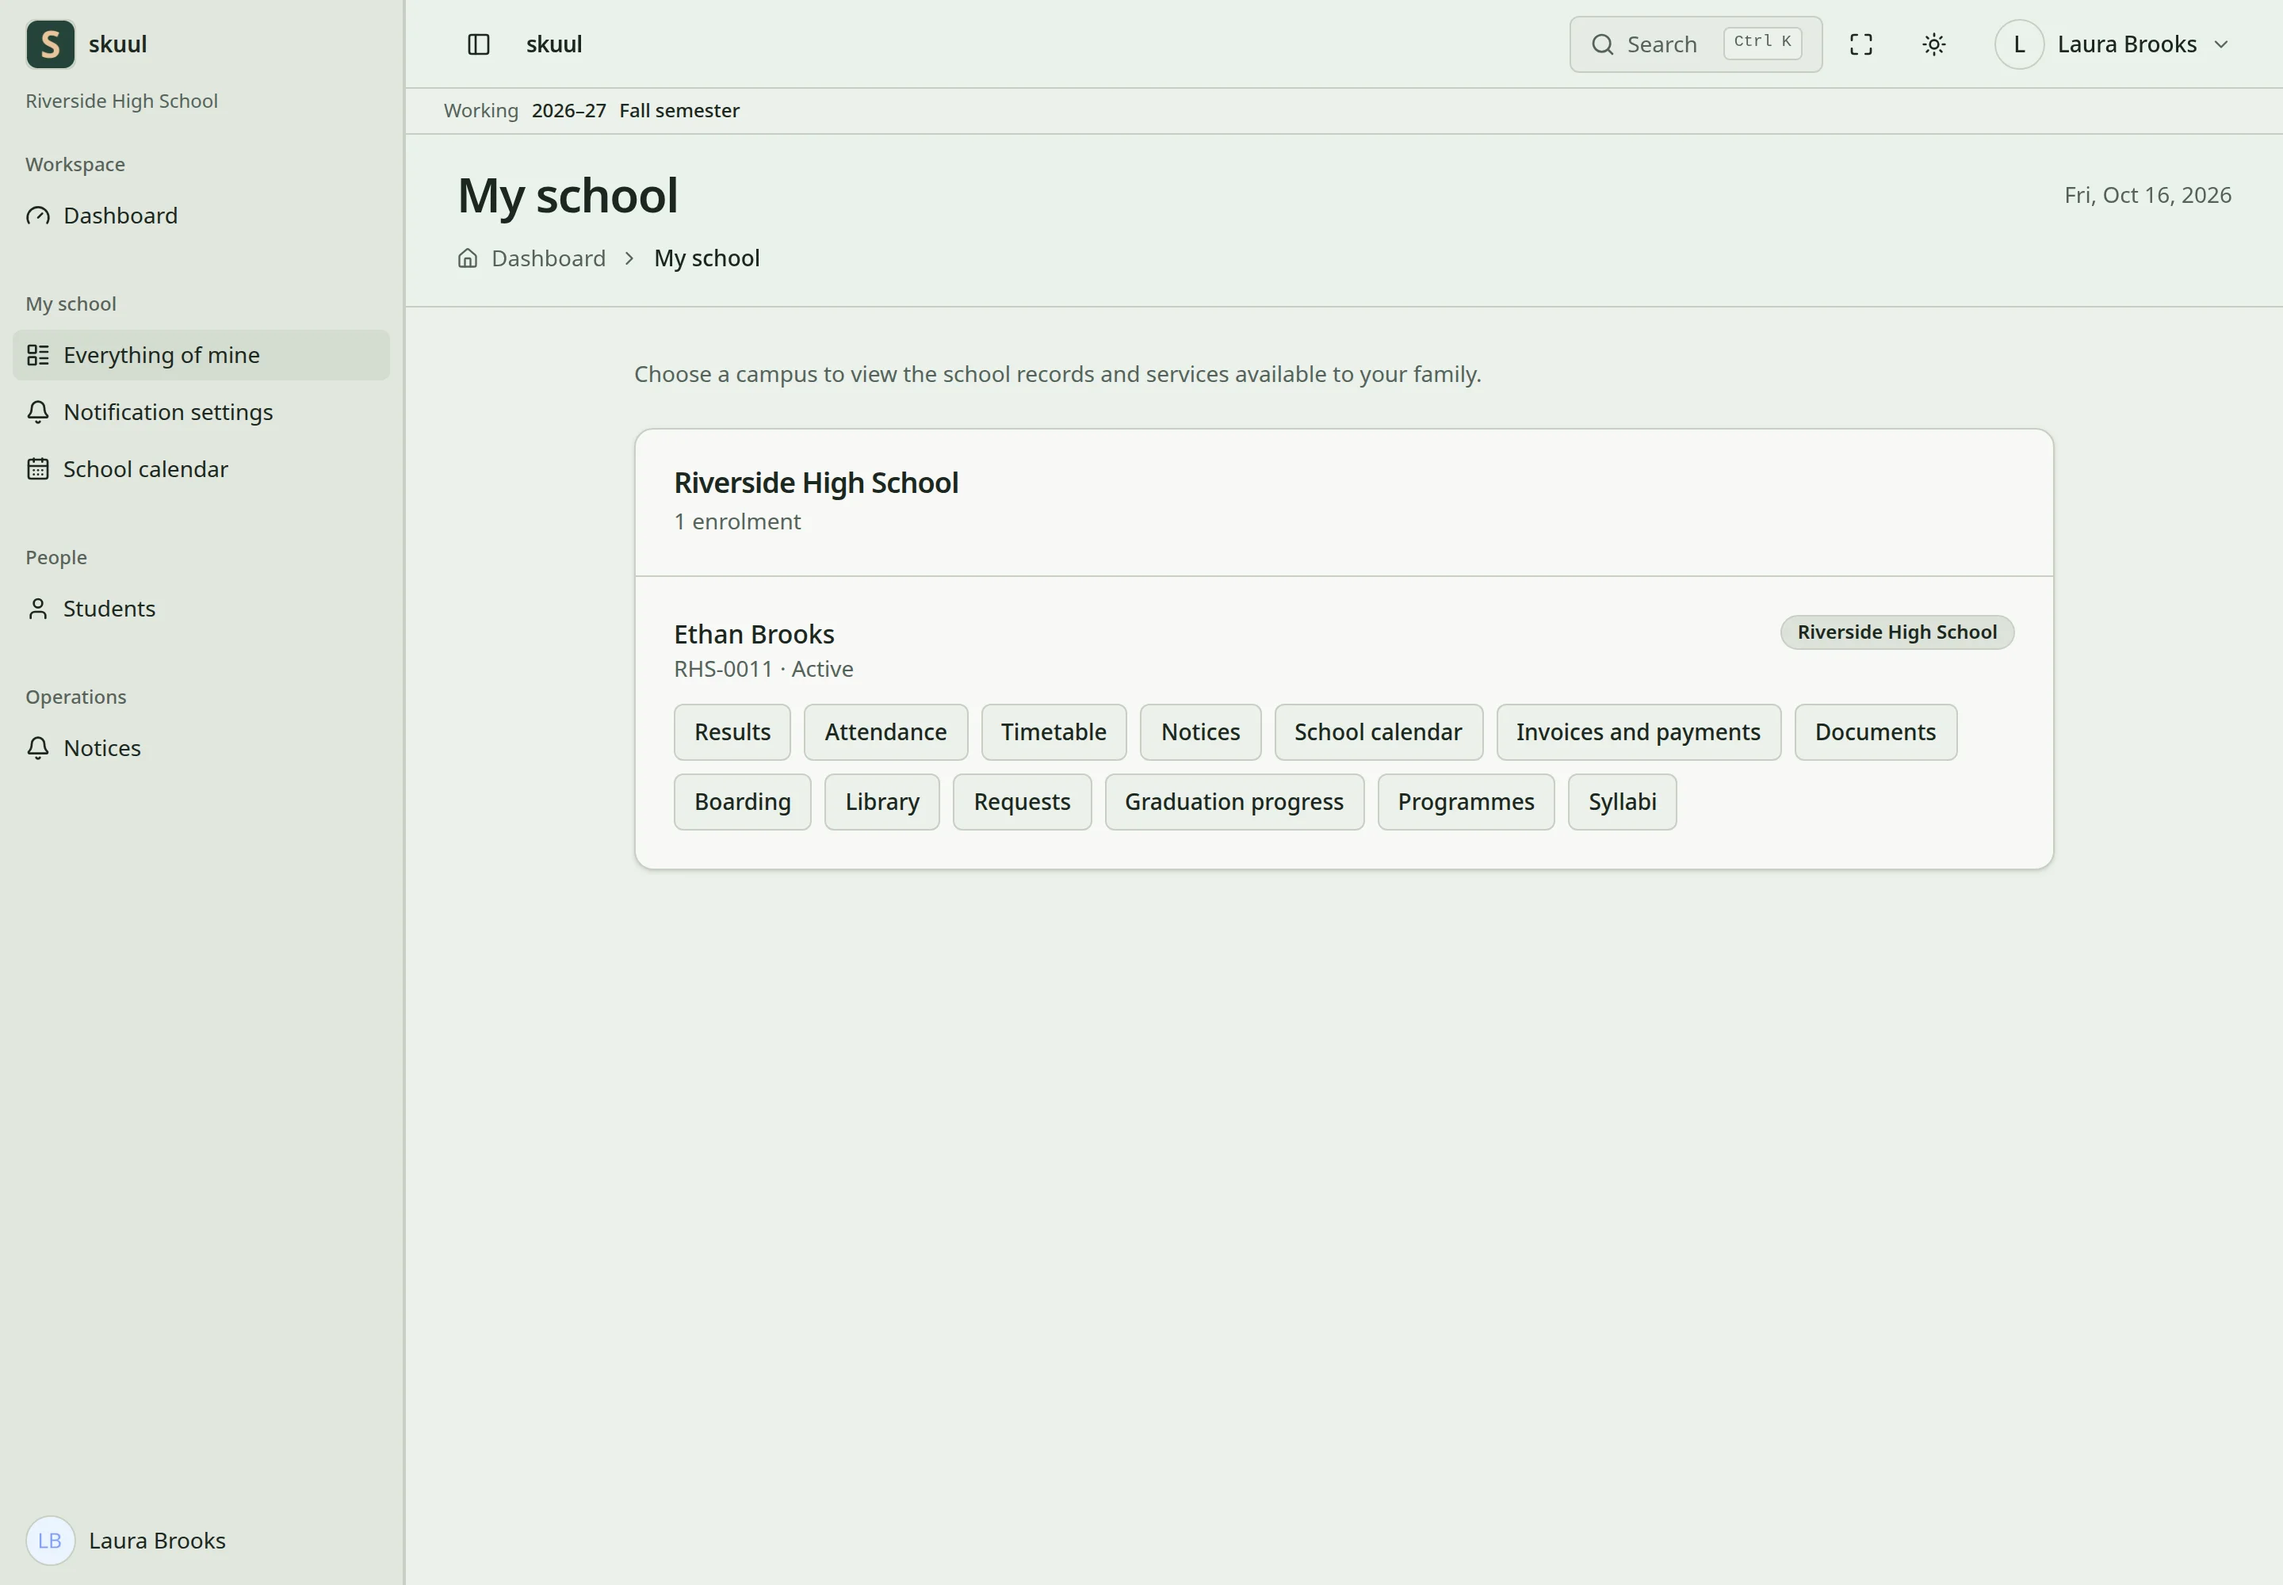
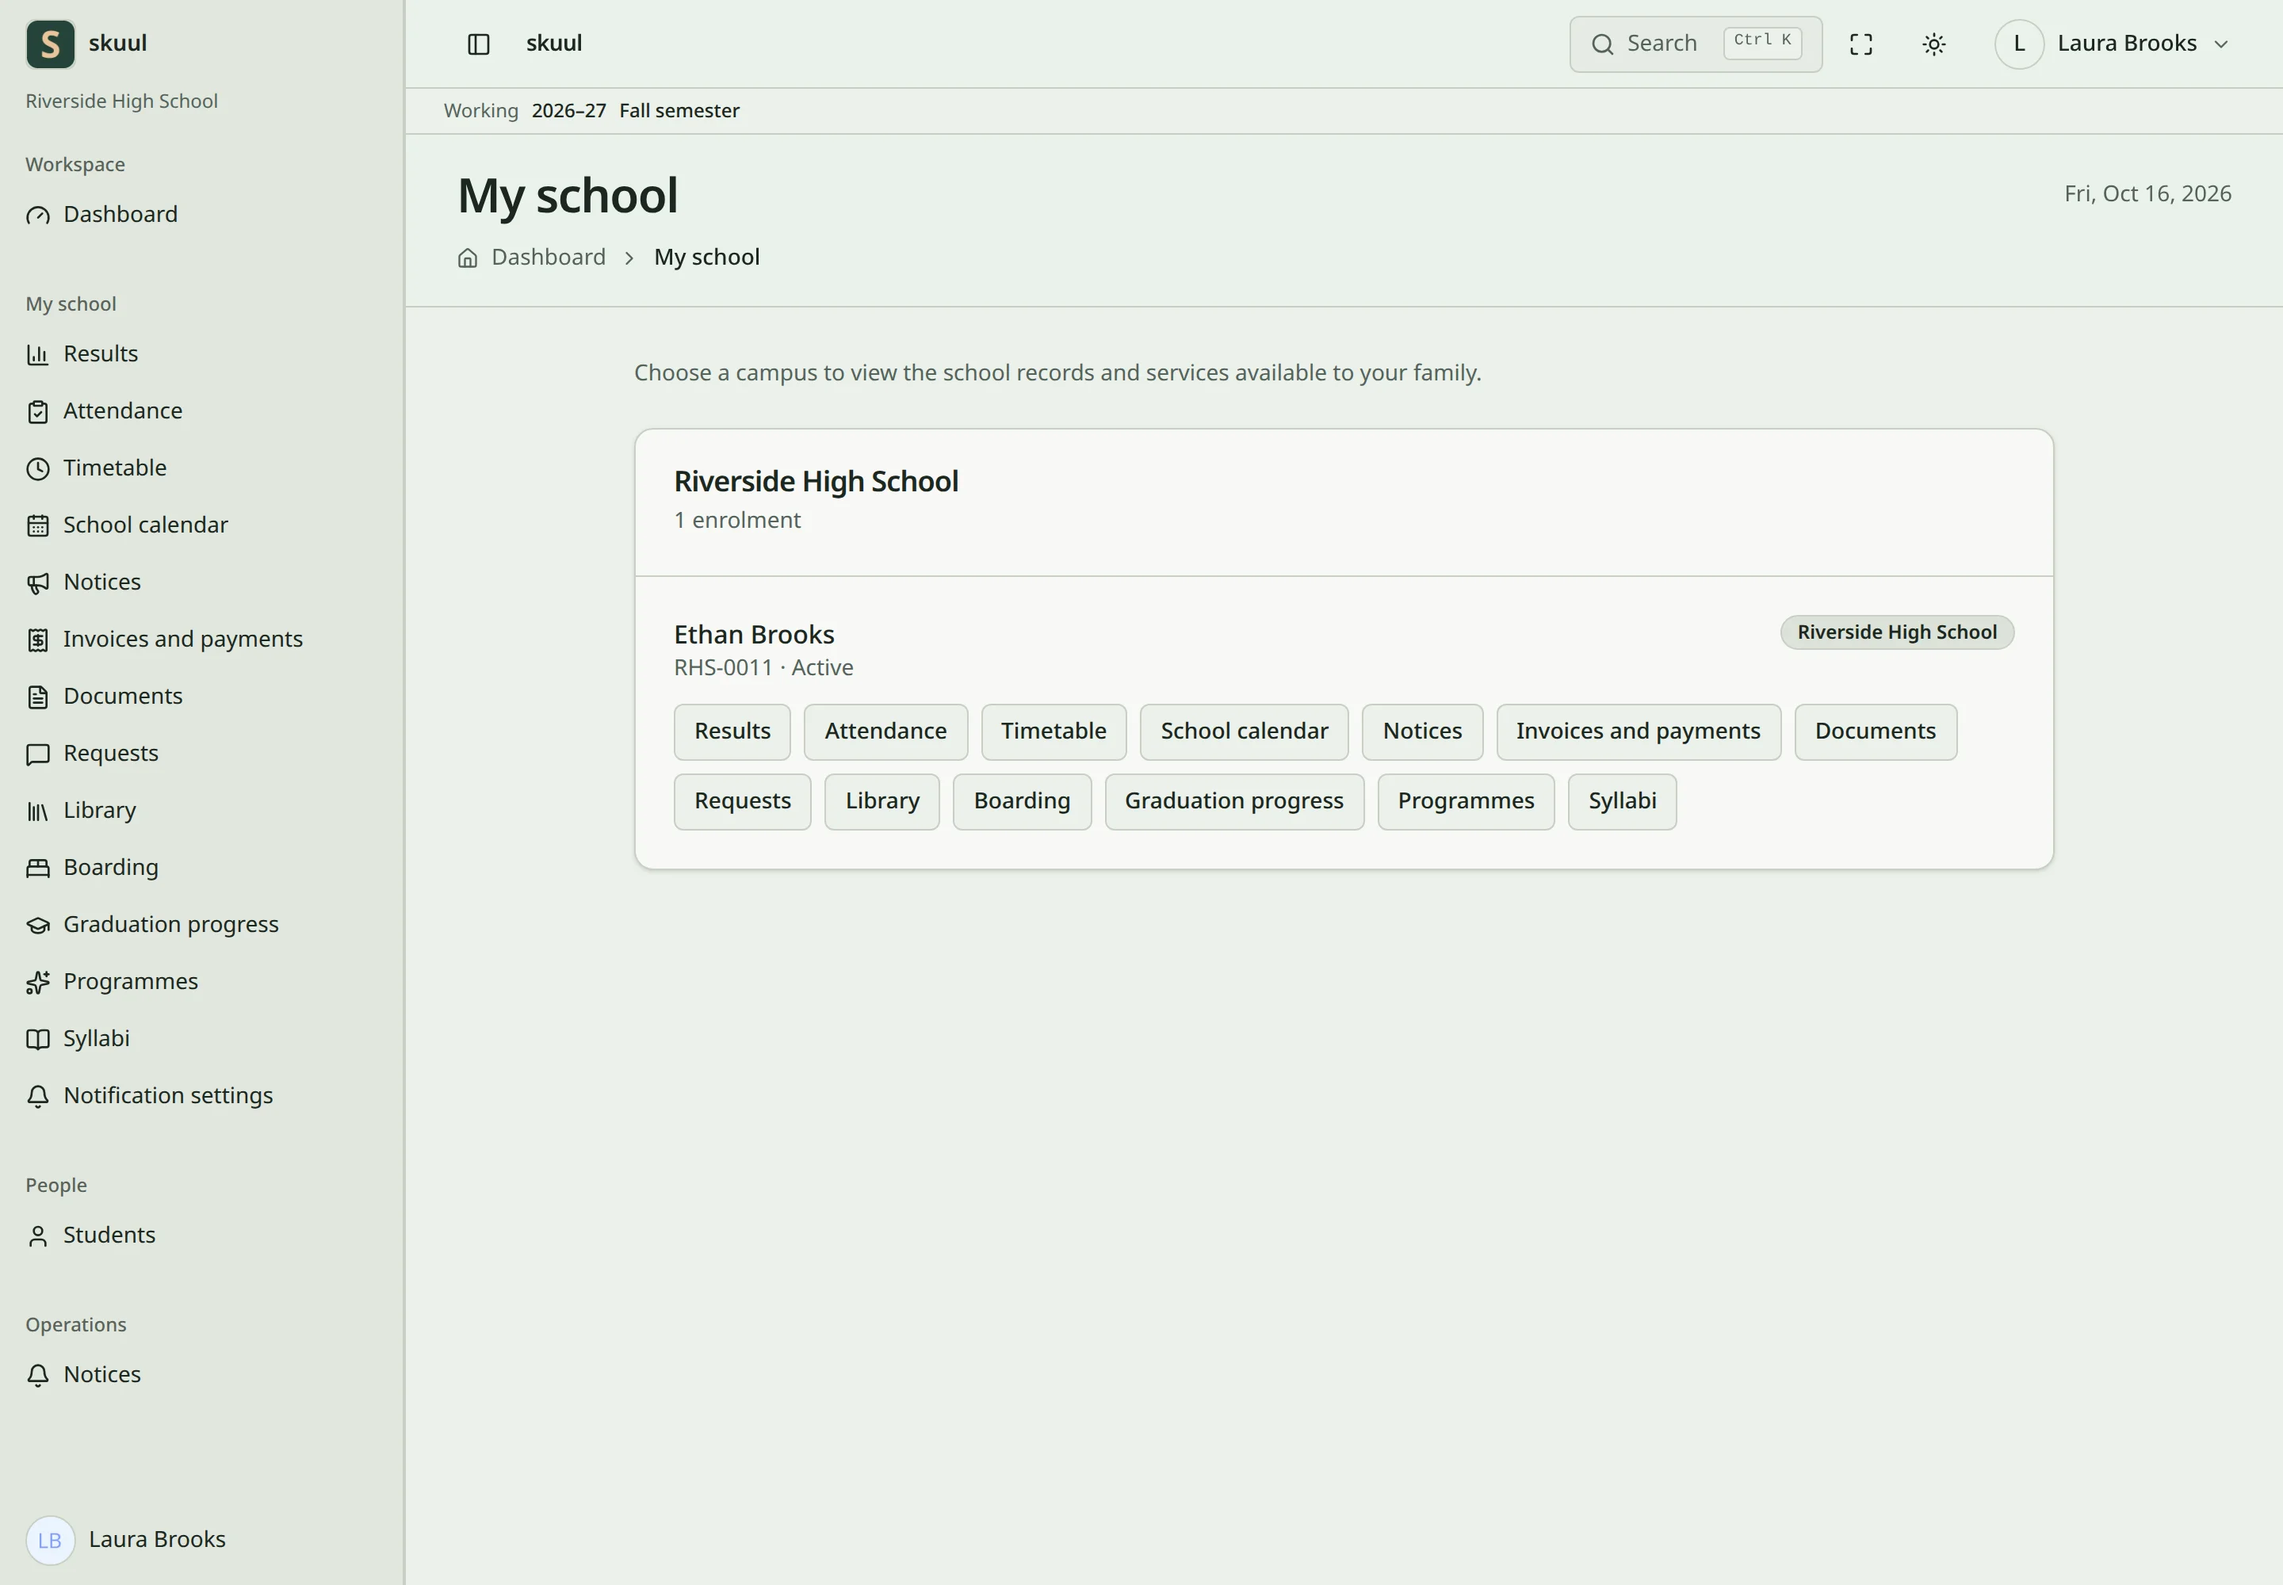
Document the per-page portal sidebar
The sidebar now lists each open portal page under My school.
Everything of mine shows only for people with several learners.
Update the family, role, and workspace guides to match.
Retake the family overview and request screenshots.

diff --git a/current/family/portal.md b/current/family/portal.md
@@ -1,7 +1,8 @@
 # Family portal
 
 A learner and their guardians read the learner's school records in the portal.
-Sign in, then select **Everything of mine** in the sidebar. The page is called **My school**.
+Sign in. The sidebar lists the open portal pages of one learner under the **My school** group.
+A person who can read more than one learner also sees **Everything of mine** in that group.
 
 A guardian sees each learner that the school linked to them.
 A learner sees their own enrollments.
@@ -9,16 +10,23 @@ The portal does not use staff permissions. It checks the learner's own account o
 
 ## Open a learner's records
 
-![The family overview shows one linked learner at Riverside High School and the areas the family can open.](/images/current/family-overview-light-desktop.webp)
+![The My school page lists one linked learner at Riverside High School with a button for each open page. The sidebar lists the same pages.](/images/current/family-overview-light-desktop.webp)
 
-**My school** groups the learners by campus.
+The sidebar shows every open page of one learner. A student selects a page directly, such as **Results** or **Invoices and payments**.
+The pages show in this order: **Results**, **Attendance**, **Timetable**, **School calendar**, **Notices**, **Invoices and payments**, **Documents**, **Requests**, **Library**, **Boarding**, **Graduation progress**, **Programmes**, **Syllabi**.
+Only the pages that the campus has open show.
+
+**Everything of mine** opens the **My school** page. It groups the learners by campus.
 Each learner shows their name, admission number, and status, with one button for each open page.
 
-1. Find the learner and check their campus.
-2. Select the page, such as **Results** or **Invoices and payments**.
+A guardian with two children chooses a child in one of two ways:
 
-Choose the learner on **My school** before you open a page.
-A guardian with two children sees both on **My school**. Each page names the learner.
+1. Select **Everything of mine**, find the child, and select a page button.
+2. Open any page of the other child.
+
+The sidebar then follows that child. The school remembers the choice for the next page.
+When a person can read more than one learner, the group header shows the learner's name instead of **My school**. The header stays **My school** when the learner is the person who signed in.
+Each page names the learner.
 If a campus closed all its family pages, the learner shows **This campus has closed the family pages.**
 
 ## Pages
@@ -68,7 +76,7 @@ Some pages also need a campus tool:
 | Programmes | Programmes |
 
 When the tool is off, the switch shows **Hidden while {tool} is off**, for example **Hidden while Attendance is off**.
-When you turn a page off, its button leaves **My school**. Its address shows **Page not found**.
+When you turn a page off, its link leaves the sidebar and its button leaves **My school**. Its address shows **Page not found**.
 
 ## Who can read what
 
@@ -88,7 +96,7 @@ It shows only when a campus of the learner has Notices open.
 
 | Problem | Action |
 | --- | --- |
-| **Everything of mine** is not in the sidebar | Ask the school to link you to the learner. A guardian with no linked learner has no portal. |
+| The **My school** group is not in the sidebar | Ask the school to link you to the learner. A guardian with no linked learner has no portal. |
 | A learner is missing | Ask the school to check the guardian link and that the enrollment is not archived. |
 | A page is missing | Ask the campus to check **Family pages** and the tool the page needs. |
 | A result is older than expected | The new result waits for approval. |

diff --git a/current/using/parent.md b/current/using/parent.md
@@ -9,15 +9,15 @@ Creating your account alone does not link your children.
 1. Open the latest invitation sent to your own email address.
 2. Set your password and complete the required sign-in steps.
 3. Sign in. The dashboard shows the current **Notices**.
-4. In the sidebar, under **My school**, select **Everything of mine**.
-5. On the **My school** page, check the names, admission numbers, and campuses of your linked learners.
-6. Select an area button under the learner whose record you need.
+4. In the sidebar, check the **My school** group. It lists the open pages of one learner.
+5. With more than one child, select **Everything of mine**. On the **My school** page, check the names, admission numbers, and campuses of your linked learners.
+6. Select a page button under the child whose record you need. The sidebar then follows that child.
 
 The default sidebar shows these entries:
 
 | Group | Entries |
 | --- | --- |
-| My school | **Everything of mine**, **Notification settings**, **School calendar** |
+| My school, or the child's name when you have several children | The open pages of one child, **Everything of mine** (only with several children), **Notification settings** |
 | People | **Students** |
 | Operations | **Notices** |
 
@@ -25,7 +25,7 @@ The default sidebar shows these entries:
 Use your own account and mailbox. Do not share a learner's password.
 Ask the school to [review guardian links](../people/guardians) when a learner is absent or incorrectly linked.
 Different campuses can show different portal areas.
-Recheck the learner and campus when you move between siblings.
+Recheck the learner and campus when you move between siblings. The group header shows the name of the child.
 
 ## Follow a learner's academic records
 
@@ -64,7 +64,7 @@ Confidential health, safeguarding, and support records are not family portal are
 
 ## Submit and follow a request
 
-1. Open **Requests** for the intended learner.
+1. Open **Requests** in the sidebar for the intended learner.
 2. Under **Ask the school**, enter **What you need**.
 3. Select the **Kind of request**: Document request, Correction request, Appointment request, or Acknowledgement.
 4. Enter **More detail (optional)** when the school needs more information.

diff --git a/current/using/student.md b/current/using/student.md
@@ -1,7 +1,7 @@
 # Student
 
 The `student` role gives you access to your eligible published learner records.
-Use **Everything of mine** for your own portal records.
+Use the **My school** group in the sidebar for your own portal records.
 The school controls publication and which portal areas are available.
 
 ## Activate your account
@@ -9,15 +9,14 @@ The school controls publication and which portal areas are available.
 1. Open the latest invitation sent to your own email address.
 2. Set your password and complete the required sign-in steps.
 3. Sign in. The dashboard shows **Notices** and **Your profile**.
-4. In the sidebar, under **My school**, select **Everything of mine**.
-5. On the **My school** page, check your name, admission number, status, and campus.
-6. Select the required area.
+4. In the sidebar, find the **My school** group.
+5. Select the required page, such as **Results** or **Attendance**.
 
 The default sidebar shows these entries:
 
 | Group | Entries |
 | --- | --- |
-| My school | **Everything of mine**, **Notification settings**, **School calendar** |
+| My school | The open portal pages, such as **Results**, **Attendance**, and **School calendar**, and **Notification settings** |
 | Teaching | **Syllabi**, **Timetables** |
 | Operations | **Notices** |
 
@@ -59,7 +58,7 @@ An absent area means that its campus feature, area setting, or eligibility needs
 
 ## Ask the school to review a record
 
-1. Open **Requests** for your learner record.
+1. Select **Requests** in the sidebar.
 2. Under **Ask the school**, enter **What you need**.
 3. Select the **Kind of request**.
 4. In **More detail (optional)**, explain the record, date or period, and help you need.

diff --git a/current/family/requests.md b/current/family/requests.md
@@ -7,9 +7,9 @@ A request is a message. It does not change a mark, invoice, attendance entry, or
 
 ## Send a request
 
-![A parent's request form sits above earlier requests, one of them answered by the school.](/images/current/family-request-light-desktop.webp)
+![A parent's request form sits above earlier requests, one of them answered by the school. The sidebar lists the open portal pages.](/images/current/family-request-light-desktop.webp)
 
-1. Open **Everything of mine**, find the learner, and select **Requests**.
+1. In the sidebar, select **Requests**. A guardian with several children first opens a page of the right child, or selects the child in **Everything of mine**.
 2. Under **Ask the school**, enter **What you need**.
 3. Select **Kind of request**: **Document request**, **Correction request**, **Appointment request**, or **Acknowledgement**.
 4. Enter **More detail (optional)**.
@@ -85,7 +85,7 @@ It stays open when the campus hides **Requests** from families, so staff can fin
 
 | Problem | Action |
 | --- | --- |
-| The family has no **Requests** button | Check the guardian link, the **Student and guardian portal** tool, and the **Requests** family page. |
+| The family has no **Requests** link | Check the guardian link, the **Student and guardian portal** tool, and the **Requests** family page. |
 | The record did not change after an answer | Make the change in its own screen, such as attendance or the gradebook. |
 | **Take back** is missing | The request is final. |
 | The answer is refused with **An answered request must carry the answer.** | Enter a **Response** for **Answered**. |

diff --git a/current/using/workspace.md b/current/using/workspace.md
@@ -36,9 +36,10 @@ Select **Search** or press Ctrl K to open the command menu. It lists the same pe
 A missing menu entry can mean that a feature is disabled or that your role lacks permission.
 Changing the address does not grant access. A page you cannot open shows "Not open to you".
 
-**Everything of mine** opens the family portal. **Notification settings** controls notice email preferences.
-**School calendar** opens the calendar of the learner's campus.
-These **My school** entries appear for student and parent accounts.
+The **My school** group lists each open portal page of one learner, such as **Results** and **School calendar**.
+**Notification settings** controls notice email preferences.
+**Everything of mine** opens the family portal overview. It shows only for a person who can read more than one learner. That person sees the learner's name as the group header.
+These entries appear for student and parent accounts.
 
 ## Save and review changes
 

diff --git a/current/using/roles.md b/current/using/roles.md
@@ -72,7 +72,7 @@ A custom title does not grant the permissions associated with that job.
 ## People with more than one role
 
 A teacher who is also a guardian keeps their permitted staff access.
-Use **My school → Everything of mine** for the family task and the staff pages for teaching work.
+Use the **My school** group in the sidebar for the family task and the staff pages for teaching work.
 Confirm the learner and campus in both contexts.
 An account with a staff role is not treated as a portal-only account.
 Review all assigned roles when restricting access; removing one role might leave another permission grant.

diff --git a/current/people/access-review.md b/current/people/access-review.md
@@ -49,7 +49,7 @@ The role editor grants only permissions already held by its authorized manager.
 It does not remove existing holders. They keep its permissions.
 Remove the assignments themselves when revoking authority.
 A teacher who is also a guardian retains staff scope while staff roles remain assigned.
-Verify family access separately through **Everything of mine**.
+Verify family access separately through the **My school** group in the sidebar.
 
 ## Prepare a staff leaver
 
